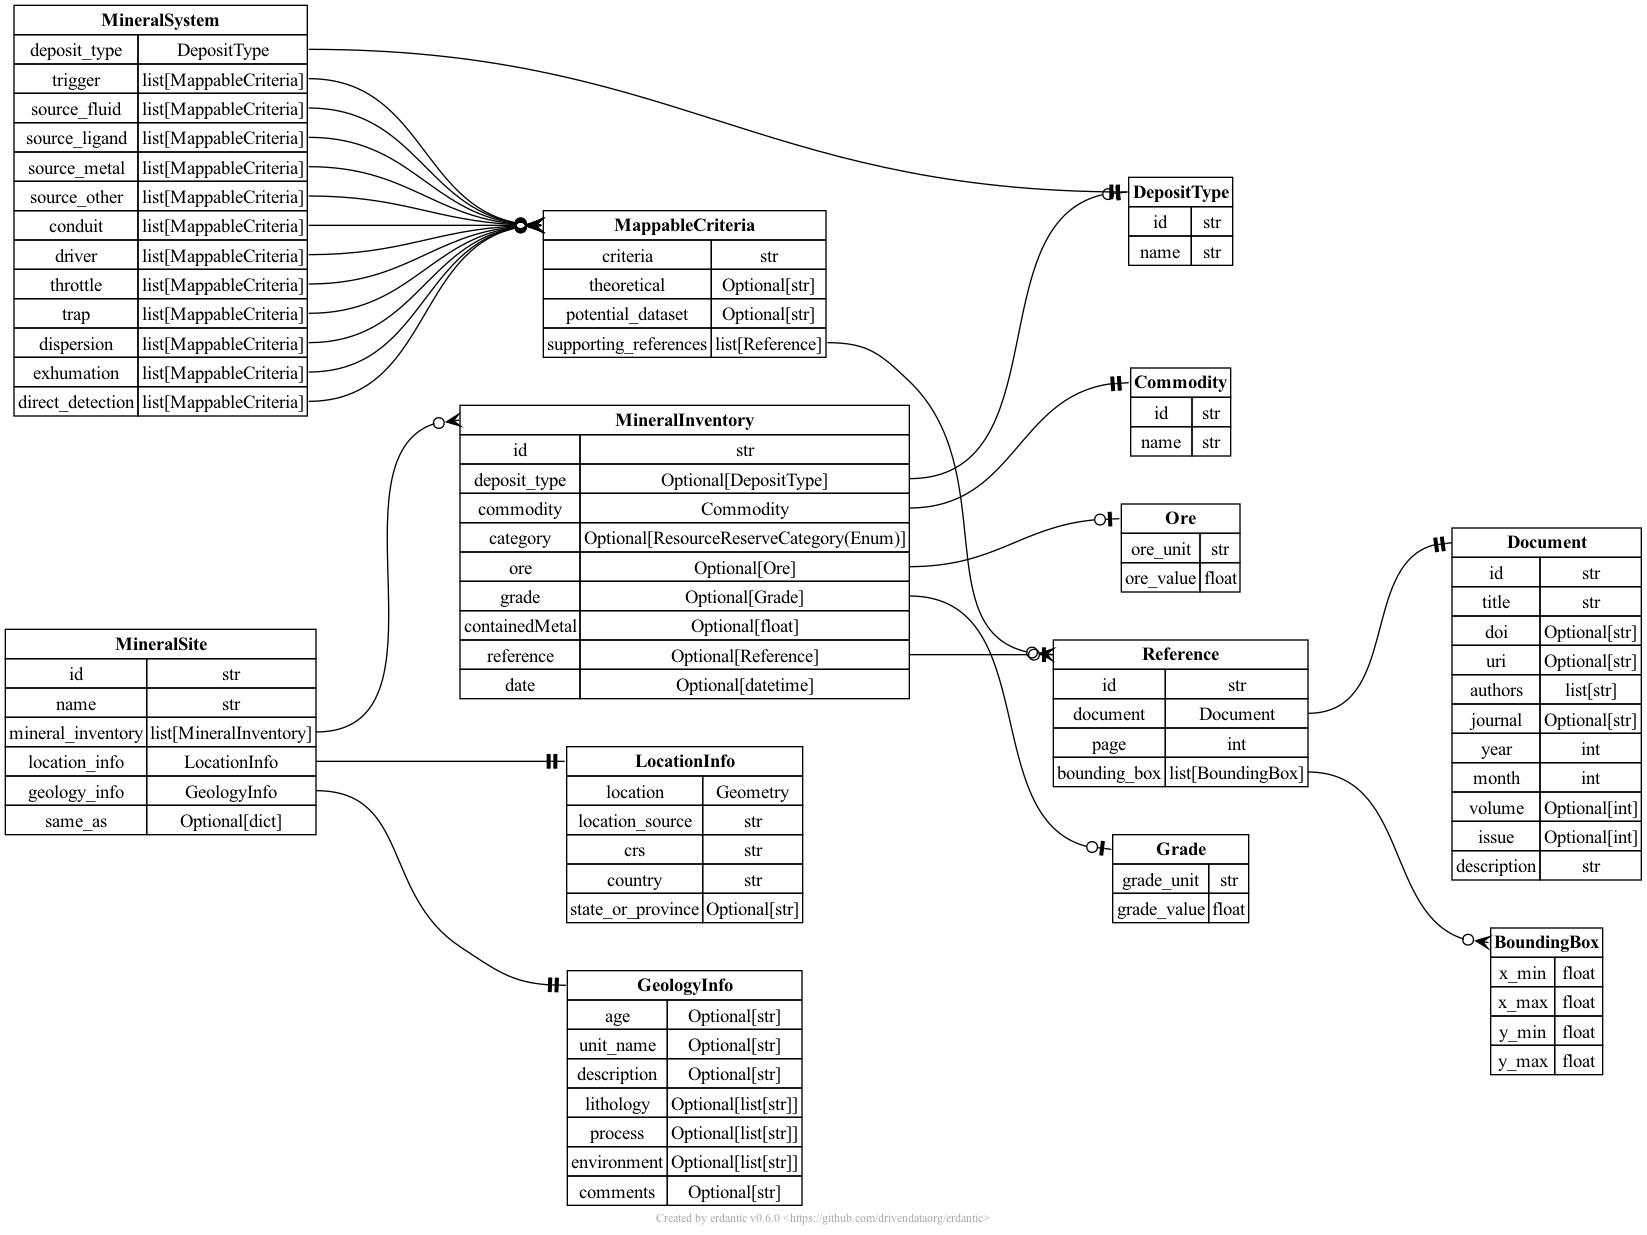
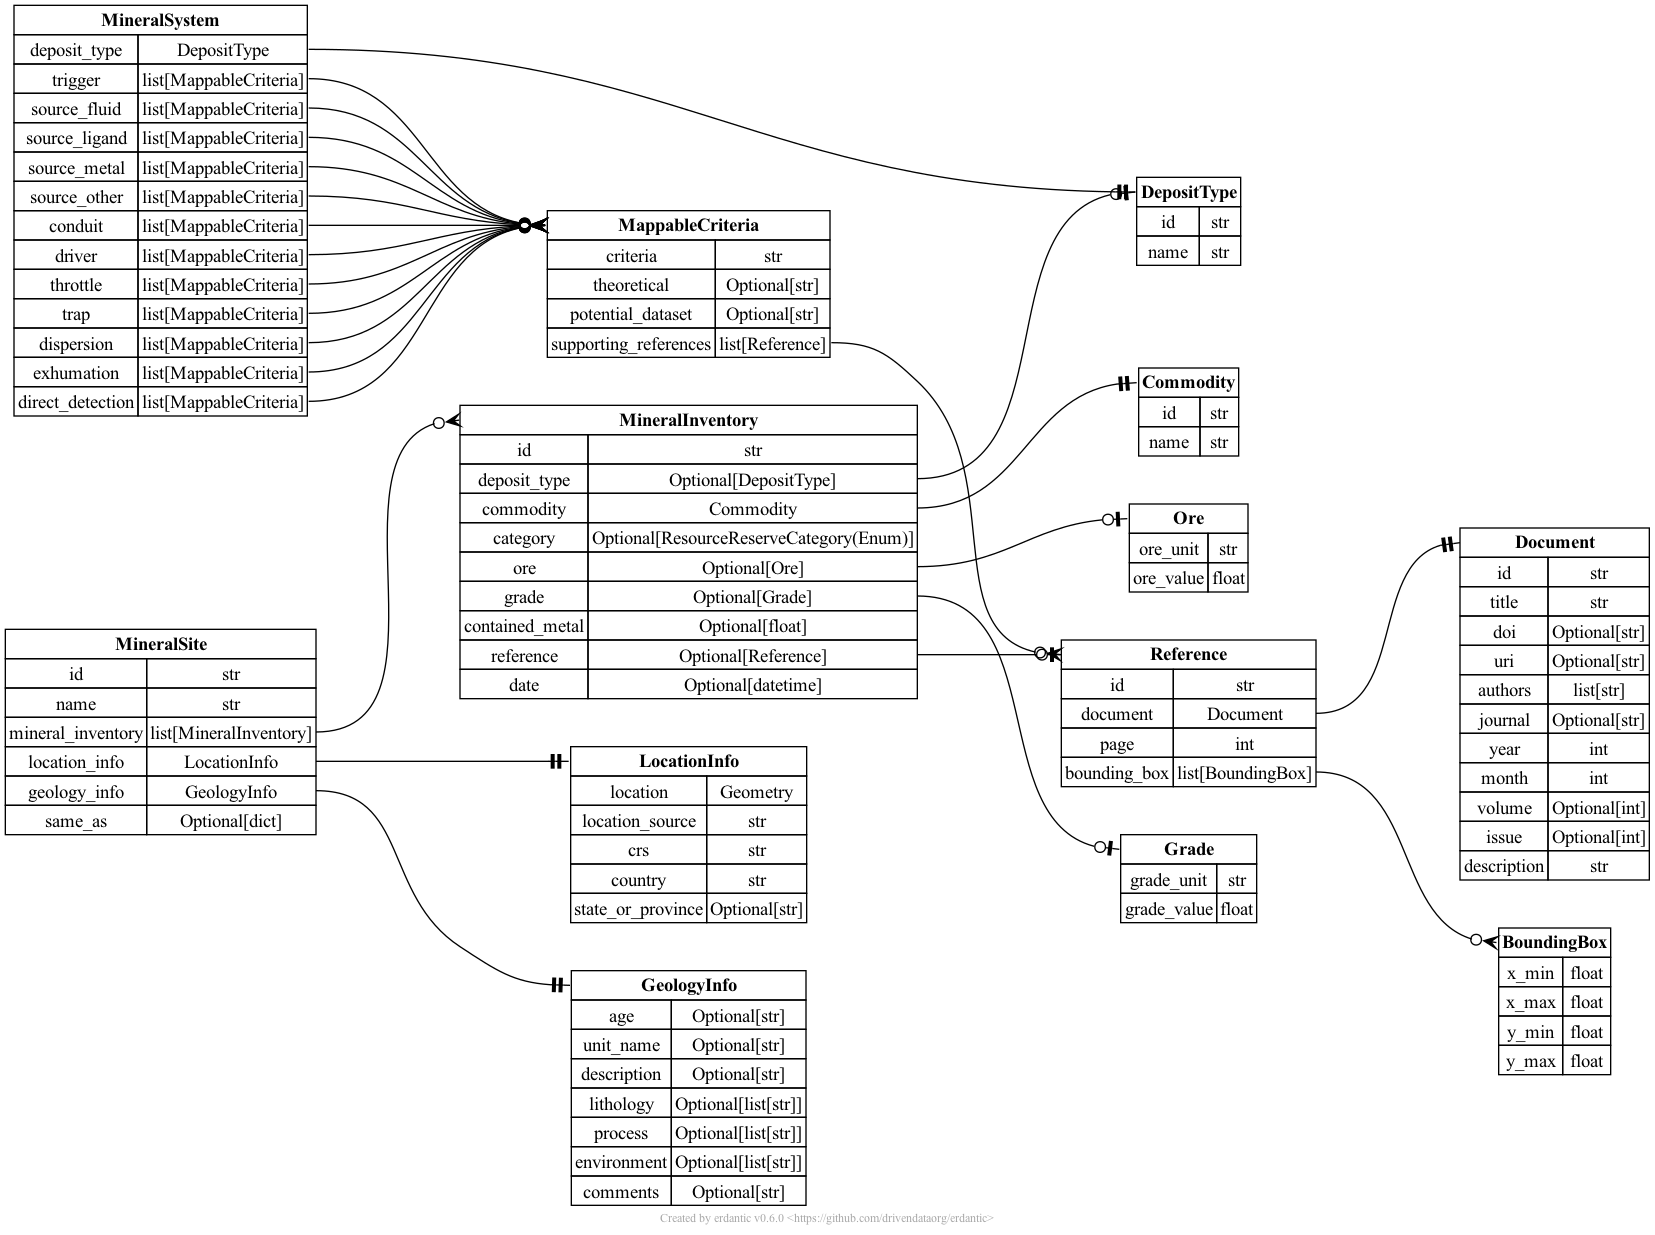
Fix contained metal

diff --git a/ta2/output.py b/ta2/output.py
@@ -104,7 +104,7 @@ class MineralInventory(BaseModel):
     category: Optional[ResourceReserveCategory] = Field( description="The category of an inventory item")
     ore: Optional[Ore] = Field( description="The ore of an inventory item")
     grade: Optional[Grade] = Field( description="The grade of an inventory item")
-    containedMetal: Optional[float] = Field( description="The quantity of a contained metal in an inventory item")
+    contained_metal: Optional[float] = Field( description="The quantity of a contained metal in an inventory item")
     reference: Optional[Reference] = Field( description="The reference of an inventory item")
     date: Optional[datetime] = Field(description="When in the point of time mineral inventory valid")
 

diff --git a/ta2/output.md b/ta2/output.md
@@ -164,7 +164,7 @@
   - **Any of**
     - : Refer to *[Grade](#Grade)*.
     - *null*
-- **`containedMetal`**: The quantity of a contained metal in an inventory item.
+- **`contained_metal`**: The quantity of a contained metal in an inventory item.
   - **Any of**
     - *number*
     - *null*
